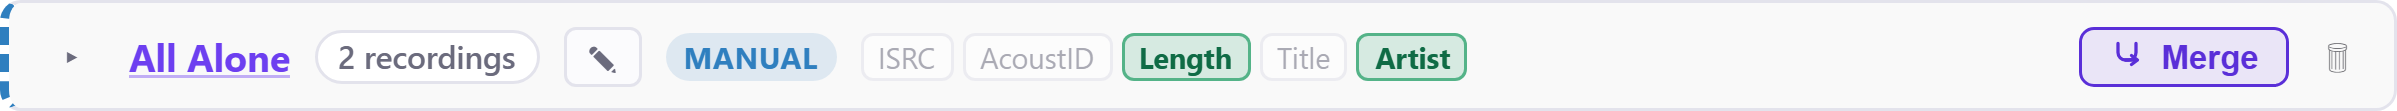
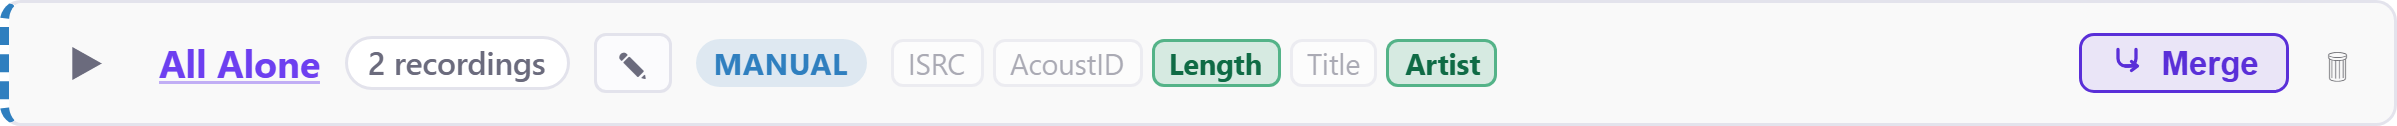
fusion: full-size carets, seed page progress, footer ID counts (#529)
"The carret is again too small. Check your memory." Third recurrence of
the same rule, this time shipped in the session where that memory was
loaded. Two things were wrong, and my own probe hid one of them:

- it asserted the HIT AREA (440px2, comfortably passing) while the glyph
  stayed at font-size:11px, under the >=12px minimum the rule states, so
  the check gave false comfort. It now asserts computed font-size too.
- the glyphs were the wrong characters entirely. U+25B8/U+25BE are
  Unicode's SMALL triangles and render visibly smaller than surrounding
  text at ANY font-size. Now U+25B6/U+25BC, the full-size pair, at 14px
  in a 22px box.

"it would be cool to have some progress in 'Loading ..' (page 1, 2...)"
A big artist is several sequential requests with nothing on screen
changing. The seed reports before each page rather than after, so the
first page shows immediately; the total is unknown until that first
response, so page 1 reports bare and later pages can say "page 2 of 4 -
100 of 310 recordings so far".

"Add accousticId/ISRC counts in the statusbar (footer)". Counted across
the whole board, pool AND grouped, so the number doesn't drop as
recordings move into groups. Recordings never looked up are excluded
from the denominator rather than silently counted as having none - the
same unknown/absent distinction the pool dots draw - with an asterisk
and a tooltip for the remainder.

diff --git a/userscripts/fusion/fusion.user.js b/userscripts/fusion/fusion.user.js
@@ -1,7 +1,7 @@
 // ==UserScript==
 // @name         Fusion
 // @namespace    https://musicbrainz.org/
-// @version      2026.8.21.172813
+// @version      2026.8.21.174052
 // @description  Merge-recordings assistant for MusicBrainz: gather a pool of candidate recordings from a release / release group / recording page (or paste any MBID/URL), auto-match them into merge groups by ISRC / AcoustID / length / title+artist, review and adjust the groups, then submit the merges directly in the background — no MB merge page involved.
 // @author       majkinetor
[1 lines of base64/hex data omitted]
@@ -445,10 +445,14 @@ async function fetchReleaseRecordings(releaseMbid) {
 // follow-ups. Used for both release-group (rgid:) and artist (arid:) seeding.
 const SEARCH_PAGE_LIMIT = 100;
 const SEARCH_MAX_PAGES = 20;   // 2000 recordings; guards a huge artist
-async function fetchRecordingsBySearch(luceneQuery, label) {
+async function fetchRecordingsBySearch(luceneQuery, label, onPage) {
     const recordings = [];
     let offset = 0, total = Infinity, pages = 0, truncatedBy = null;
     while (offset < total && pages < SEARCH_MAX_PAGES) {
+        // #529: "it would be cool to have some progress in 'Loading ..' (page 1,
+        // 2...)" — a big artist is several sequential requests with nothing on
+        // screen changing, so report before each one rather than after.
+        if (onPage) onPage(pages + 1, Number.isFinite(total) ? Math.ceil(total / SEARCH_PAGE_LIMIT) : null, recordings.length, Number.isFinite(total) ? total : null);
         const j = await wsGet('/ws/2/recording?query=' + encodeURIComponent(luceneQuery) + '&fmt=json&limit=' + SEARCH_PAGE_LIMIT + '&offset=' + offset);
         if (!j) { truncatedBy = 'a failed request'; break; }
         total = j.count || 0;
@@ -479,20 +483,20 @@ async function fetchRecordingsBySearch(luceneQuery, label) {
     else Log.info(label + ': ' + recordings.length + ' recording(s) of ' + total + ' total (' + luceneQuery + ')');
     return { recordings, total: known ? total : recordings.length };
 }
-async function fetchRGRecordings(rgMbid) {
+async function fetchRGRecordings(rgMbid, onPage) {
     const rgMeta = await wsGet('/ws/2/release-group/' + rgMbid + '?inc=artist-credits&fmt=json');
     const rg = rgMeta ? { gid: rgMeta.id, title: rgMeta.title, artistCredit: acName(rgMeta['artist-credit']) } : null;
-    const { recordings } = await fetchRecordingsBySearch('rgid:' + rgMbid, 'RG seed');
+    const { recordings } = await fetchRecordingsBySearch('rgid:' + rgMbid, 'RG seed', onPage);
     return { rg, recordings };
 }
 // #529 (majkinetor): "scraping the page is not going to cut it, we need to use
 // an API here" — the artist page is paginated at 100 rows and its DOM layout
 // shifts with login state, so the whole artist catalogue now comes from the
 // indexed search instead (297 vs 100 for the artist that surfaced this).
-async function fetchArtistRecordings(artistMbid) {
+async function fetchArtistRecordings(artistMbid, onPage) {
     const meta = await wsGet('/ws/2/artist/' + artistMbid + '?fmt=json');
     const artist = meta ? { gid: meta.id, name: meta.name } : null;
-    const { recordings, total } = await fetchRecordingsBySearch('arid:' + artistMbid, 'Artist seed');
+    const { recordings, total } = await fetchRecordingsBySearch('arid:' + artistMbid, 'Artist seed', onPage);
     return { artist, recordings, total };
 }
 // MB's own merge checkboxes on an artist-recordings page carry the internal
@@ -1205,8 +1209,11 @@ function fsStyle() {
         + '.fs-gcard-manual{border-left-color:var(--fs-blue);border-left-style:dashed}'
         + '.fs-gcard.fs-active{outline:2px solid var(--fs-purple);outline-offset:-1px}'
         + '.fs-ghdr{display:flex;align-items:center;gap:8px;padding:7px 10px;background:rgba(0,0,0,.025);border-bottom:1px solid var(--fs-border);cursor:pointer}'
-        // Collapse/expand toggles. Generous hit area, never a bare glyph (#419).
-        + '.fs-ctog,.fs-exp{display:inline-flex;align-items:center;justify-content:center;min-width:16px;height:16px;padding:2px 3px;border-radius:3px;cursor:pointer;color:var(--fs-muted);font-size:11px;flex-shrink:0}'
+        // Collapse/expand toggles. Full-size glyph AND a generous hit area (#419,
+        // #467, #529 — third recurrence of the same rule). ▶/▼ are the full-size
+        // triangles; ▸/▾ are Unicode's *small* ones and read as shrunken however
+        // much padding is wrapped around them.
+        + '.fs-ctog,.fs-exp{display:inline-flex;align-items:center;justify-content:center;min-width:22px;height:22px;padding:2px 5px;border-radius:3px;cursor:pointer;color:var(--fs-muted);font-size:14px;line-height:1;flex-shrink:0}'
         + '.fs-ctog:hover,.fs-exp:hover{background:rgba(0,0,0,.07);color:var(--fs-text)}'
         + '.fs-gcard-collapsed .fs-ghdr{border-bottom:none}'
         + '.fs-cnt{font-size:10.5px;color:var(--fs-muted);white-space:nowrap}'
@@ -1294,6 +1301,8 @@ function fsStyle() {
         + '.fs-gdrop{margin:6px 8px 8px;border:1px dashed var(--fs-border);border-radius:6px;padding:6px;text-align:center;color:var(--fs-muted);font-size:10.5px}'
         + '.fs-newgroup{border:1px dashed var(--fs-border);border-radius:7px;padding:9px;text-align:center;color:var(--fs-muted);font-size:12px;cursor:pointer}'
         + '.fs-ftr{display:flex;align-items:center;gap:12px;padding:10px 14px;background:var(--fs-panel2);border-top:1px solid var(--fs-border)}'
+        + '.fs-idstat{white-space:nowrap;cursor:help}'
+        + '.fs-idstat-none{color:var(--fs-muted)}'
         + '.fs-sum{color:var(--fs-muted);font-size:12px}'
         + '.fs-sum b{color:var(--fs-text)}'
         + '.fs-note{color:var(--fs-muted);font-size:11px}'
@@ -1506,7 +1515,7 @@ function groupCardHtml(group) {
         const expanded = STATE.expandedReleases.has(m.gid);
         return '<div class="fs-growwrap">'
             + '<div class="fs-grow' + (isTarget ? ' fs-target-row' : '') + '" draggable="true" data-gid="' + m.gid + '">'
-            + '<span class="fs-exp' + (expanded ? ' fs-exp-on' : '') + '" data-act="toggle-releases" title="' + (expanded ? 'hide' : 'show') + ' every release this recording appears on">' + (expanded ? '▾' : '▸') + '</span>'
+            + '<span class="fs-exp' + (expanded ? ' fs-exp-on' : '') + '" data-act="toggle-releases" title="' + (expanded ? 'hide' : 'show') + ' every release this recording appears on">' + (expanded ? '▼' : '▶') + '</span>'
             + star
             + '<span class="fs-t" title="' + escapeHtml(m.title) + '">' + pendingBadge(m) + videoBadge(m) + recLink(m.gid, m.title) + '</span>'
             + '<span class="fs-artistcol" title="' + escapeHtml(m.artistCredit || '') + '">' + artistLink(m) + '</span>'
@@ -1545,7 +1554,7 @@ function groupCardHtml(group) {
     const collapsed = STATE.collapsedGroups.has(group.id);
     return '<div class="fs-gcard fs-gcard-' + confClass + activeCls + (collapsed ? ' fs-gcard-collapsed' : '') + '" data-gid="' + group.id + '">'
         + '<div class="fs-ghdr">'
-        + '<span class="fs-ctog" data-act="toggle-card" title="' + (collapsed ? 'expand this group' : 'collapse this group') + '">' + (collapsed ? '▸' : '▾') + '</span>'
+        + '<span class="fs-ctog" data-act="toggle-card" title="' + (collapsed ? 'expand this group' : 'collapse this group') + '">' + (collapsed ? '▶' : '▼') + '</span>'
         + '<span class="fs-gt" title="' + escapeHtml(head ? head.title : '') + '">' + (head ? recLink(head.gid, head.title) : 'New group') + '</span>'
         + (collapsed ? '<span class="fs-cnt">' + members.length + ' recording' + (members.length === 1 ? '' : 's') + '</span>' : '')
         + noteBtn
@@ -1587,7 +1596,25 @@ function renderFooter() {
     const ready = STATE.groups.filter(g => g.state === 'pending' || g.state === 'error').length;
     const done = STATE.groups.filter(g => g.state === 'done').length;
     const sum = document.getElementById('fs-summary');
-    if (sum) sum.innerHTML = '<b>' + STATE.groups.length + '</b> group' + (STATE.groups.length === 1 ? '' : 's') + ' · <b>' + ready + '</b> ready' + (done ? ' · <b>' + done + '</b> merged' : '') + ' · <b>' + STATE.poolOrder.length + '</b> in pool';
+    // #529: "Add AcoustID/ISRC counts in the statusbar (footer) that are shown in
+    // log". Counted over everything on the board — pool AND grouped — so the
+    // number doesn't drop as recordings move into groups. Recordings never
+    // looked up are excluded from the denominator rather than counted as zero,
+    // matching the pool dots' unknown/absent distinction.
+    const all = [...STATE.recordings.values()];
+    const isrcKnown = all.filter(r => r.isrcsKnown);
+    const withIsrc = isrcKnown.filter(r => r.isrcs && r.isrcs.length).length;
+    const acidKnown = all.filter(r => r.acoustids != null);
+    const withAcid = acidKnown.filter(r => r.acoustids.length).length;
+    const idPart = (label, n, known, total) => {
+        if (!known) return '<span class="fs-idstat fs-idstat-none" title="' + label + 's have not been looked up yet">' + label + ' —</span>';
+        const pending = total - known;
+        return '<span class="fs-idstat" title="' + n + ' of ' + known + ' checked recording(s) have an ' + label
+            + (pending ? '; ' + pending + ' not looked up yet' : '') + '"><b>' + n + '</b>/' + known + ' ' + label + (pending ? '*' : '') + '</span>';
+    };
+    if (sum) sum.innerHTML = '<b>' + STATE.groups.length + '</b> group' + (STATE.groups.length === 1 ? '' : 's') + ' · <b>' + ready + '</b> ready' + (done ? ' · <b>' + done + '</b> merged' : '') + ' · <b>' + STATE.poolOrder.length + '</b> in pool'
+        + ' · ' + idPart('ISRC', withIsrc, isrcKnown.length, all.length)
+        + ' · ' + idPart('AcoustID', withAcid, acidKnown.length, all.length);
     const btn = document.getElementById('fs-mergeall');
     if (btn) { btn.disabled = ready === 0; btn.textContent = '⚡ Merge All (' + ready + ') →'; }
 }
@@ -1652,6 +1679,14 @@ let _scopeBaseLabel = '';
 function setScopeLabel(text) { _scopeBaseLabel = text; const e = document.getElementById('fs-scope'); if (e) e.textContent = text; }
 // append to the REMEMBERED base, never to whatever is currently rendered —
 // otherwise re-running this would keep tacking the suffix on again and again.
+// #529: "it would be cool to have some progress in 'Loading ..' (page 1, 2...)"
+// The total is unknown until the first page comes back, so page 1 reports bare
+// and every later page can say how many there are in total.
+function seedPageProgress(page, totalPages, loaded, total) {
+    const of = totalPages ? ' of ' + totalPages : '';
+    const got = total ? ' — ' + loaded + ' of ' + total + ' recordings so far' : '';
+    setScopeLabel('Loading… page ' + page + of + got);
+}
 function setScopeSuffix(suffix) { const e = document.getElementById('fs-scope'); if (e) e.textContent = _scopeBaseLabel + suffix; }
 
 async function onAutoMatch() {
@@ -2120,7 +2155,7 @@ async function seedFromScope() {
         enrichAllReleases(recordings, 3, scheduleBackgroundRender).catch(() => {});
         enrichPoolInBackground(recordings);
     } else if (SCOPE.type === 'release-group') {
-        const { rg, recordings } = await fetchRGRecordings(SCOPE.mbid);
+        const { rg, recordings } = await fetchRGRecordings(SCOPE.mbid, seedPageProgress);
         STATE.rgInfo = rg;
         recordings.forEach(r => addToPool(r));
         setScopeLabel(rg ? ('Release group: "' + rg.title + '" · ' + rg.artistCredit) : 'Release group');
@@ -2132,7 +2167,7 @@ async function seedFromScope() {
         if (rec) enrichPoolInBackground([rec]);
     } else if (SCOPE.type === 'artist-recordings') {
         harvestInternalIdsFromPage();   // free ids from the visible page, independent of seeding
-        const { artist, recordings, total } = await fetchArtistRecordings(SCOPE.mbid);
+        const { artist, recordings, total } = await fetchArtistRecordings(SCOPE.mbid, seedPageProgress);
         recordings.forEach(r => addToPool(r));
         setScopeLabel('Artist: ' + (artist ? '"' + artist.name + '"' : SCOPE.mbid)
             + ' — ' + recordings.length + (Number.isFinite(total) && total > recordings.length ? ' of ' + total : '') + ' recording(s)'
@@ -2188,7 +2223,7 @@ try {
         mkRecording, fetchReleaseRecordings, fetchRGRecordings, fetchRecordingByGid, fetchAllReleases, resolveInternalId, fetchAcoustIds, fetchAcoustIdsBatch, enrichIsrcs, fetchRecordingDetail, fetchEntityMeta, enrichPendingEdits, fetchRecordingsBySearch, fetchArtistRecordings, harvestInternalIdsFromPage,
         pairSignals, poolMatches, computeGroupConfidence, SIGNAL_KEYS, ACOUSTID_BATCH, shouldUnion, autoMatch, enrichAcoustIds, enrichAllReleases,
         migrateSettings, presenceDots, SETTINGS_DEFAULTS, RETIRED_ACOUSTID_CAP,
-        fetchReleaseDetails, releaseTableHtml, toggleReleaseDetails,
+        fetchReleaseDetails, releaseTableHtml, toggleReleaseDetails, renderFooter, seedPageProgress,
         addToPool, createGroupWithMember, addToGroup, returnToPool, removeFromGroupAndPool, removeFromPoolPermanently, findGroup, deleteGroup, clearBoard, videoConflict,
         buildEditNote, autoEditNote, evidenceLines, ensureInternalIds, mergeGroup, mergeAll, describeRecordingForLog,
         openFusion, closeFusion, seedFromScope, maybeAutoMatchOnOpen, renderAll, renderPool, renderGroups, busyStart, busyEnd,
